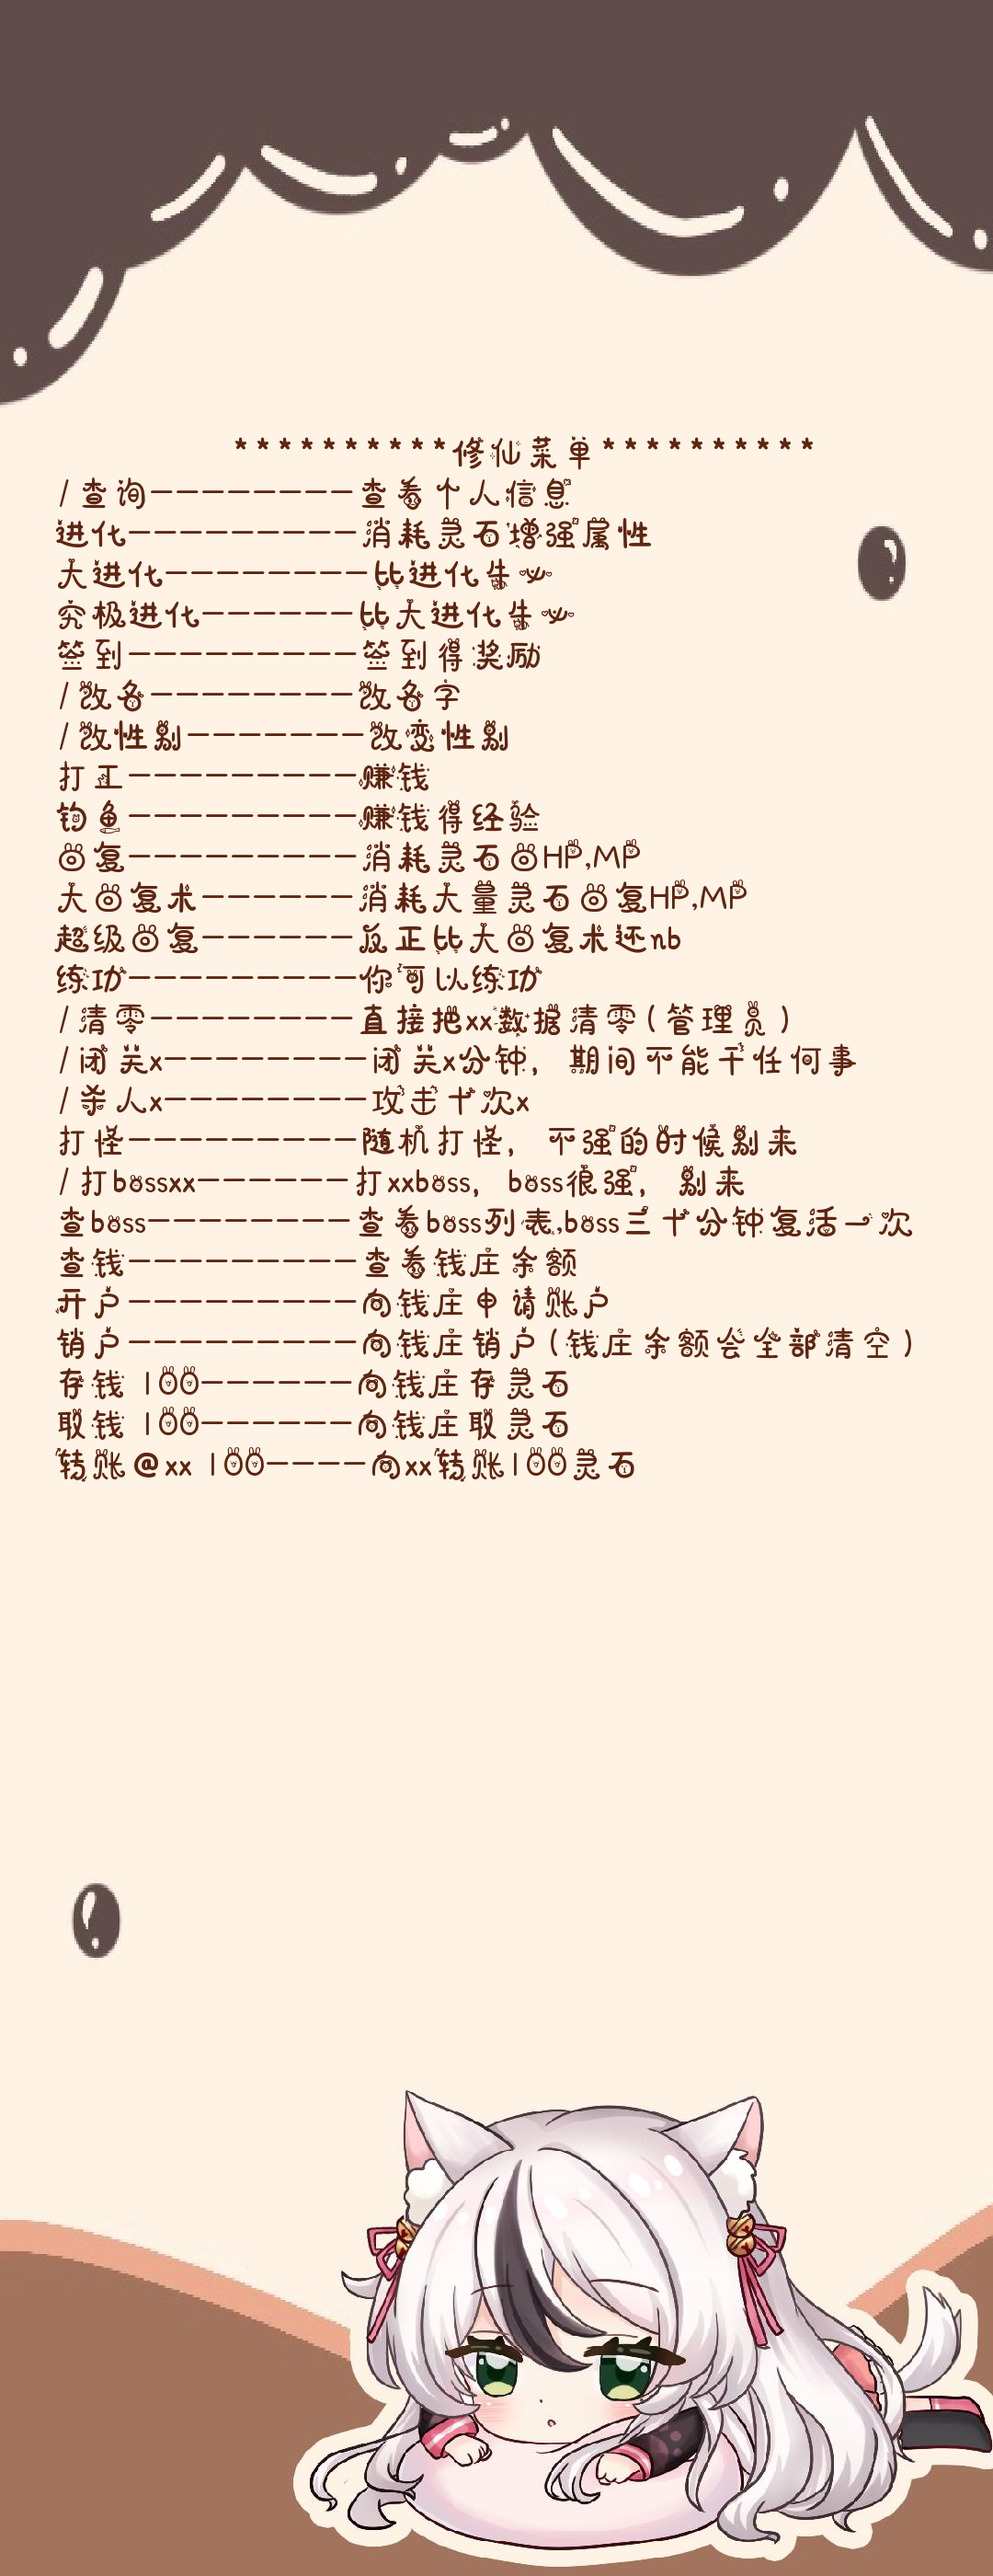
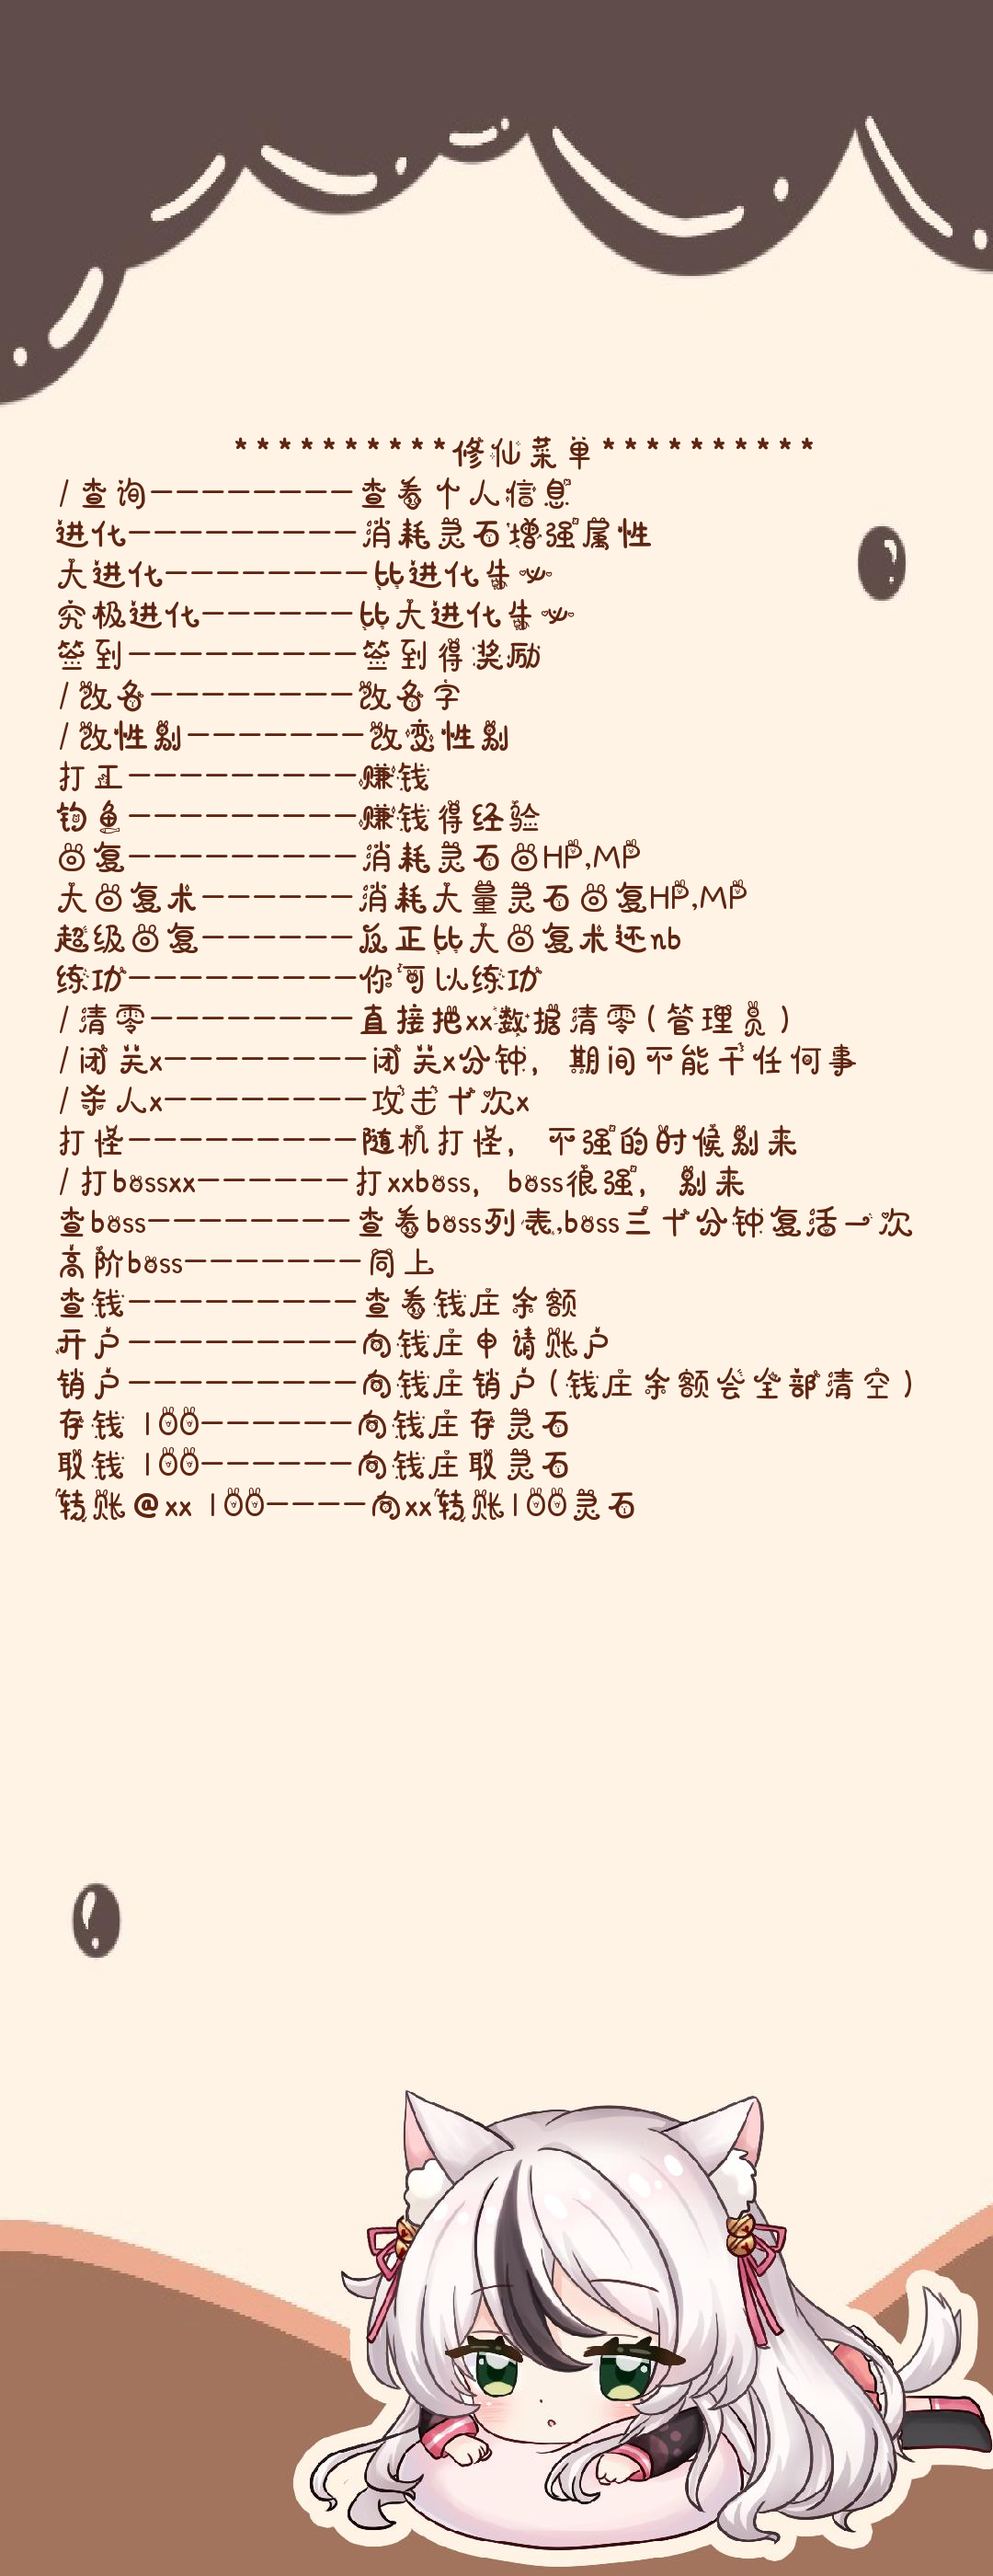
src

Changed region(s): [[0.3667, 0.4661, 0.7333, 0.5904], [0.0611, 0.4661, 0.275, 0.5904], [0.7639, 0.4971, 0.8556, 0.5593]]

diff --git a/bot2/plugins/xiuxian/__init__.py b/bot2/plugins/xiuxian/__init__.py
@@ -8,7 +8,8 @@
 @Github: https://github.com/0xchang
 """
 import sqlite3
-from bot2.plugins.xiuxian.moncfg import monsters,monboss
+from bot2.plugins.xiuxian.moncfg import monsters, monboss, highmonboss
+
 
 def create_xian():
     con = sqlite3.connect('data/xiuxian.data')
@@ -17,14 +18,16 @@ def create_xian():
     create_xiulian_sql = 'create table if not exists biguan(uid int,xtime int,jtime int)'
     create_chenghao_sql = 'create table if not exists chenghao(uid int,kill int,fish int,dazuo int,work int)'
     create_monster_sql = 'create table if not exists monsters(name text,HP int,attack int,defense int)'
-    create_mboos_sql = 'create table if not exists monboss(name text,HP int,attack int,defense int,live int)'
-    create_bank_sql='create table if not exists bank(uid int,gold int)'
+    create_hmboos_sql = 'create table if not exists monboss(name text,HP int,attack int,defense int,live int)'
+    create_mboos_sql = 'create table if not exists highmonboss(name text,HP int,attack int,defense int,live int)'
+    create_bank_sql = 'create table if not exists bank(uid int,gold int)'
     cur.execute(create_xian_sql)
     cur.execute(create_xiulian_sql)
     cur.execute(create_chenghao_sql)
     cur.execute(create_monster_sql)
     cur.execute(create_mboos_sql)
     cur.execute(create_bank_sql)
+    cur.execute(create_hmboos_sql)
     con.commit()
     cur.close()
     con.close()
@@ -38,11 +41,14 @@ def create_monster():
     cur = con.cursor()
     cur.execute('delete from monsters')
     cur.execute('delete from monboss')
+    cur.execute('delete from highmonboss')
     con.commit()
     for monster in monsters:
         cur.execute('insert into monsters(name,HP,attack,defense) values(?,?,?,?)', monster)
     for monster in monboss:
         cur.execute('insert into monboss(name,HP,attack,defense,live) values(?,?,?,?,1)', monster)
+    for monster in highmonboss:
+        cur.execute('insert into highmonboss(name,HP,attack,defense,live) values(?,?,?,?,1)', monster)
     con.commit()
     cur.close()
     con.close()

diff --git a/bot2/plugins/xiuxian/lookboss.py b/bot2/plugins/xiuxian/lookboss.py
@@ -11,17 +11,17 @@ from nonebot import on_fullmatch
 from nonebot.adapters.onebot.v11.message import Message
 import sqlite3
 
-lbossxian = on_fullmatch('查boss', priority=262, )
+lbossxian = on_fullmatch('查boss', priority=262)
 
 
 @lbossxian.handle()
 async def lbossxian_handle():
     mess = ''
-    con=sqlite3.connect('data/xiuxian.data')
-    cur=con.cursor()
+    con = sqlite3.connect('data/xiuxian.data')
+    cur = con.cursor()
     cur.execute('select * from monboss')
     con.commit()
-    monboss=cur.fetchall()
+    monboss = cur.fetchall()
     cur.close()
     con.close()
     for mon in monboss:
@@ -31,4 +31,29 @@ async def lbossxian_handle():
         else:
             mess += '否'
         mess += '\n'
+    mess=mess[:-1]
     await lbossxian.finish(Message(mess))
+
+
+lhbossxian = on_fullmatch('高阶boss', priority=263)
+
+
+@lhbossxian.handle()
+async def lhbossxian_handle():
+    mess = ''
+    con = sqlite3.connect('data/xiuxian.data')
+    cur = con.cursor()
+    cur.execute('select * from highmonboss')
+    con.commit()
+    monboss = cur.fetchall()
+    cur.close()
+    con.close()
+    for mon in monboss:
+        mess = mess + mon[0] + '->血量:' + str(mon[1]) + ',攻击:' + str(mon[2]) + ',防御:' + str(mon[3]) + ',存活:'
+        if mon[4] == 1:
+            mess += '是'
+        else:
+            mess += '否'
+        mess += '\n'
+    mess=mess[:-1]
+    await lhbossxian.finish(Message(mess))

diff --git a/bot2/plugins/xiuxian/moncfg.py b/bot2/plugins/xiuxian/moncfg.py
@@ -36,3 +36,12 @@ monboss = (('天狗', 20000, 10000, 8000),
            ('巨蟒王', 20000, 32000, 10000),
            ('六耳猕猴', 150000, 145000, 130000),
            ('猪八戒', 300000, 150000, 320000),)
+
+highmonboss = (('季沧海', 2000000, 3200000, 3000000),
+             ('武田信忠', 2400000, 3000000, 3150000),
+             ('吸血鬼血祖', 2000000, 3200000, 2000000),
+             ('精灵族女王', 1500000, 4050000, 3000000),
+             ('天使族族长', 5000000, 3000000, 4000000),
+             ('天海', 10000000, 8000000, 15000000),
+             ('恶魔族族长', 2500000, 6000000, 3500000),
+             ('杰克·库博', 100000000, 100000000, 100000000),)

diff --git a/bot2/plugins/xiuxian/AMonster.py b/bot2/plugins/xiuxian/AMonster.py
@@ -50,7 +50,13 @@ class MonBoss:
         cur.execute('select * from monboss where name=?', (self.name,))
         con.commit()
         val = cur.fetchall()
+        if val==[]:
+            cur.execute('select * from highmonboss where name=?', (self.name,))
+            con.commit()
+            val = cur.fetchall()
         _1, self.HP, self.attack, self.defense, _2 = val[0]
+        cur.close()
+        con.close()
 
     def getAttack(self) -> int:
         return self.attack

diff --git a/bot2/plugins/xiuxian/atboss.py b/bot2/plugins/xiuxian/atboss.py
@@ -31,6 +31,10 @@ async def bgxian_handle(event: GroupMessageEvent, argcom: Message = CommandArg()
         cur.execute('select * from monboss where name=?', (bt,))
         con.commit()
         val = cur.fetchall()
+        if len(val) == 0:
+            cur.execute('select * from highmonboss where name=?', (bt,))
+            con.commit()
+            val = cur.fetchall()
         cur.close()
         con.close()
         if len(val) == 0:

diff --git a/bot2/plugins/help/xiuxianhelp.py b/bot2/plugins/help/xiuxianhelp.py
@@ -34,6 +34,7 @@ def create_xiuxian_help():
     打怪---------随机打怪，不强的时候别来
     /打bossxx------打xxboss，boss很强，别来
     查boss--------查看boss列表,boss三十分钟复活一次
+    高阶boss-------同上
     查钱---------查看钱庄余额
     开户---------向钱庄申请账户
     销户---------向钱庄销户(钱庄余额会全部清空)
